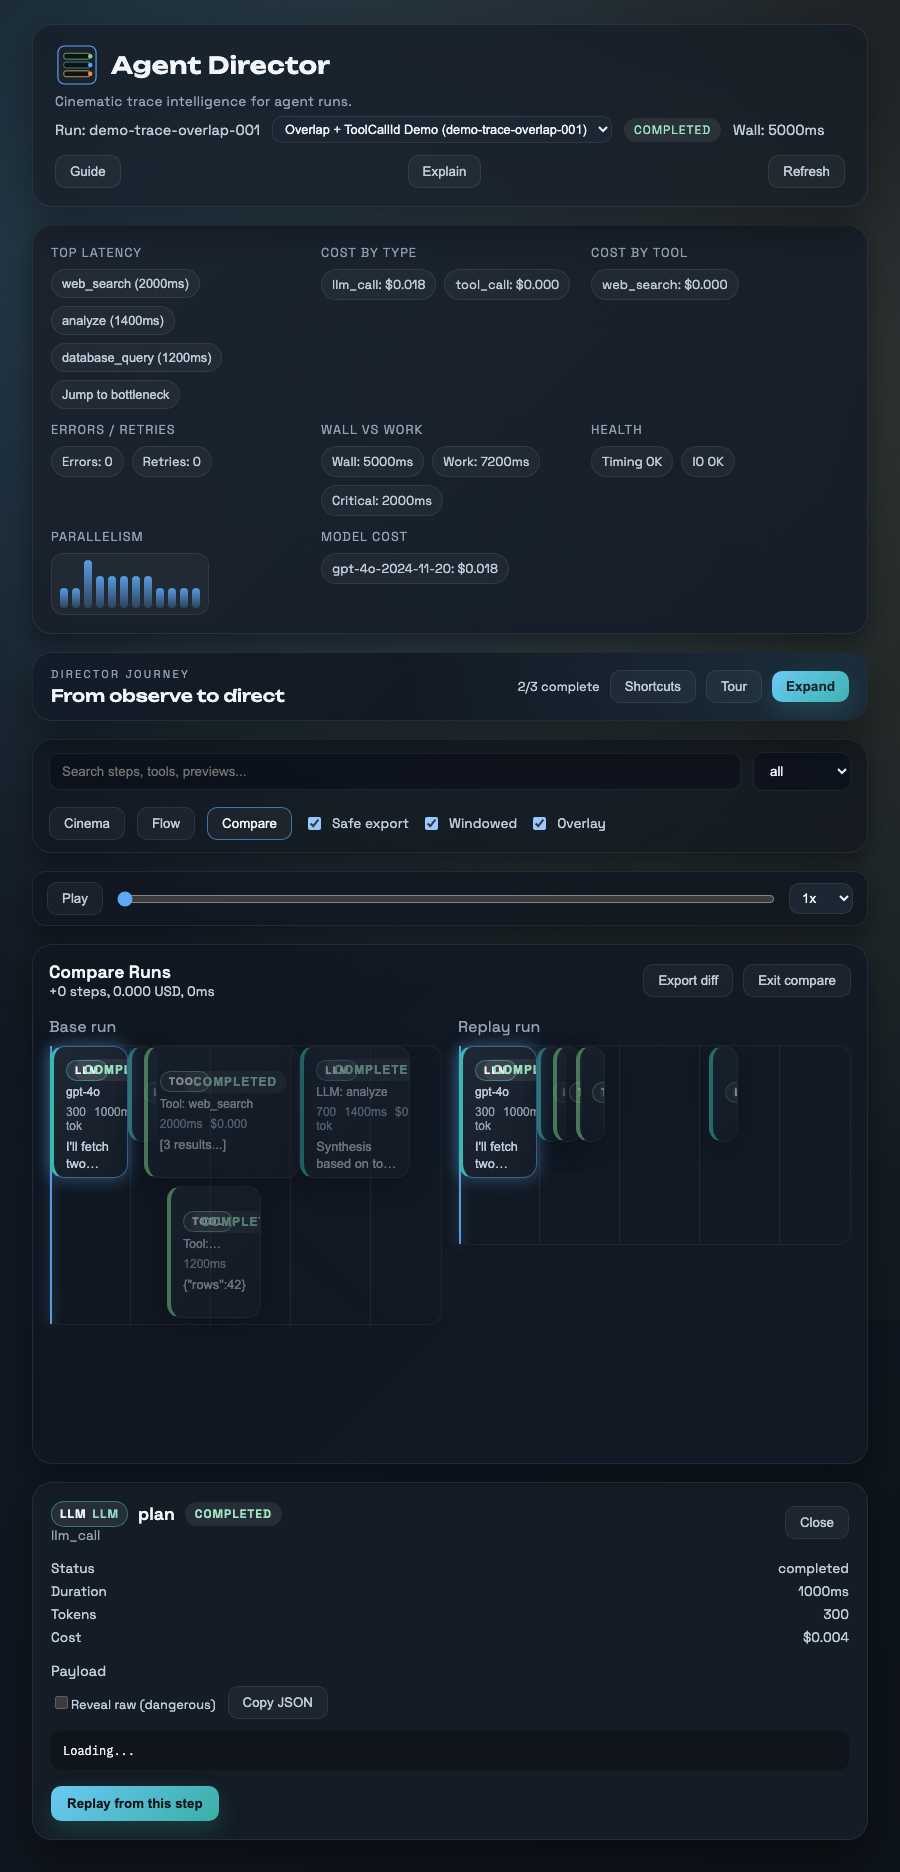
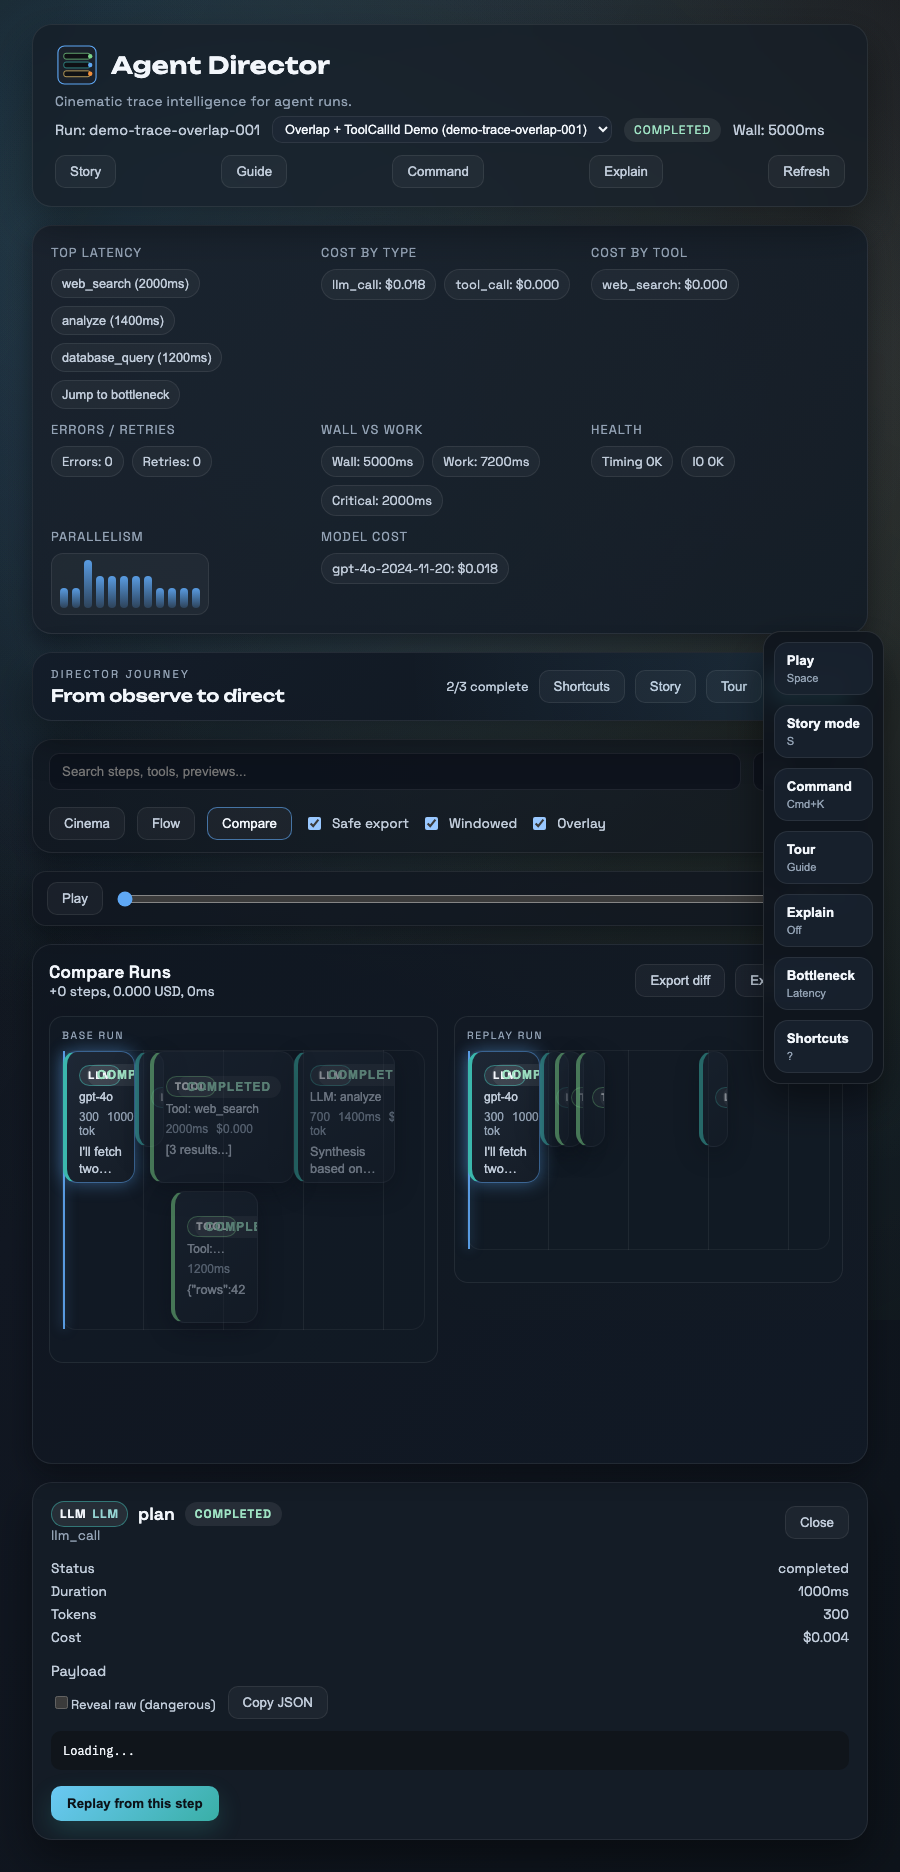
fix(ui): polish compare layout and stabilize snapshots

diff --git a/ui/src/styles/main.css b/ui/src/styles/main.css
@@ -1315,15 +1315,21 @@ pre {
 }
 
 .compare-view {
+  position: relative;
   display: flex;
   flex-direction: column;
   gap: 16px;
+  height: 100%;
+  overflow: auto;
+  padding-right: 8px;
+  padding-bottom: 6px;
 }
 
 .compare-header {
   display: flex;
   justify-content: space-between;
   align-items: center;
+  gap: 16px;
 }
 
 .compare-actions {
@@ -1346,11 +1352,23 @@ pre {
   display: grid;
   grid-template-columns: 1fr 1fr;
   gap: 16px;
+  align-items: start;
+}
+
+.compare-pane {
+  background: rgba(18, 26, 36, 0.75);
+  border: 1px solid var(--border);
+  border-radius: var(--radius-md);
+  padding: 12px;
+  min-height: 260px;
 }
 
 .compare-pane-title {
   margin-bottom: 8px;
   color: var(--text-muted);
+  text-transform: uppercase;
+  letter-spacing: 0.16em;
+  font-size: 0.65rem;
 }
 
 .morph-layer {

diff --git a/ui/src/components/Compare/index.tsx b/ui/src/components/Compare/index.tsx
@@ -55,7 +55,6 @@ export default function Compare({ baseTrace, compareTrace, playheadMs, onExit, s
     <section
       className="compare-view"
       data-help
-      data-help-indicator
       data-tour="compare-view"
       data-help-title="Compare runs"
       data-help-body="Side-by-side playback showing deltas in steps, cost, and wall time after a replay."

diff --git a/ui/playwright.config.ts b/ui/playwright.config.ts
@@ -7,7 +7,7 @@ export default defineConfig({
   expect: {
     toHaveScreenshot: {
       maxDiffPixelRatio: 0.02,
-      maxDiffPixels: 15000,
+      maxDiffPixels: 20000,
     },
   },
   use: {
